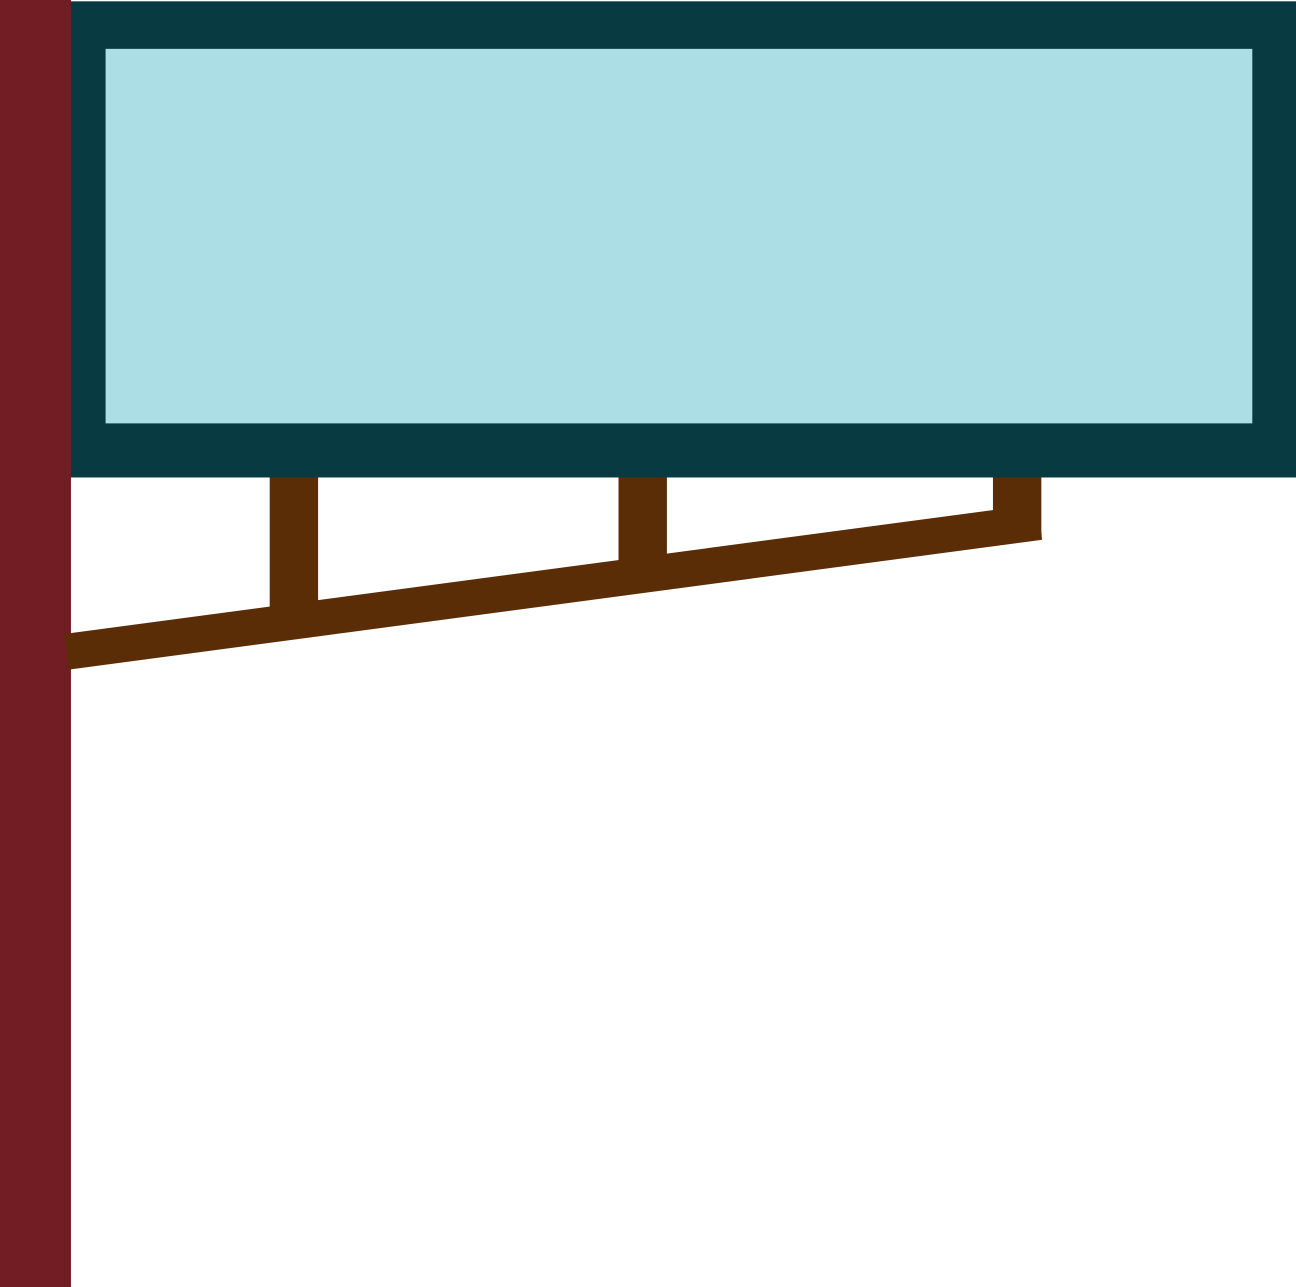
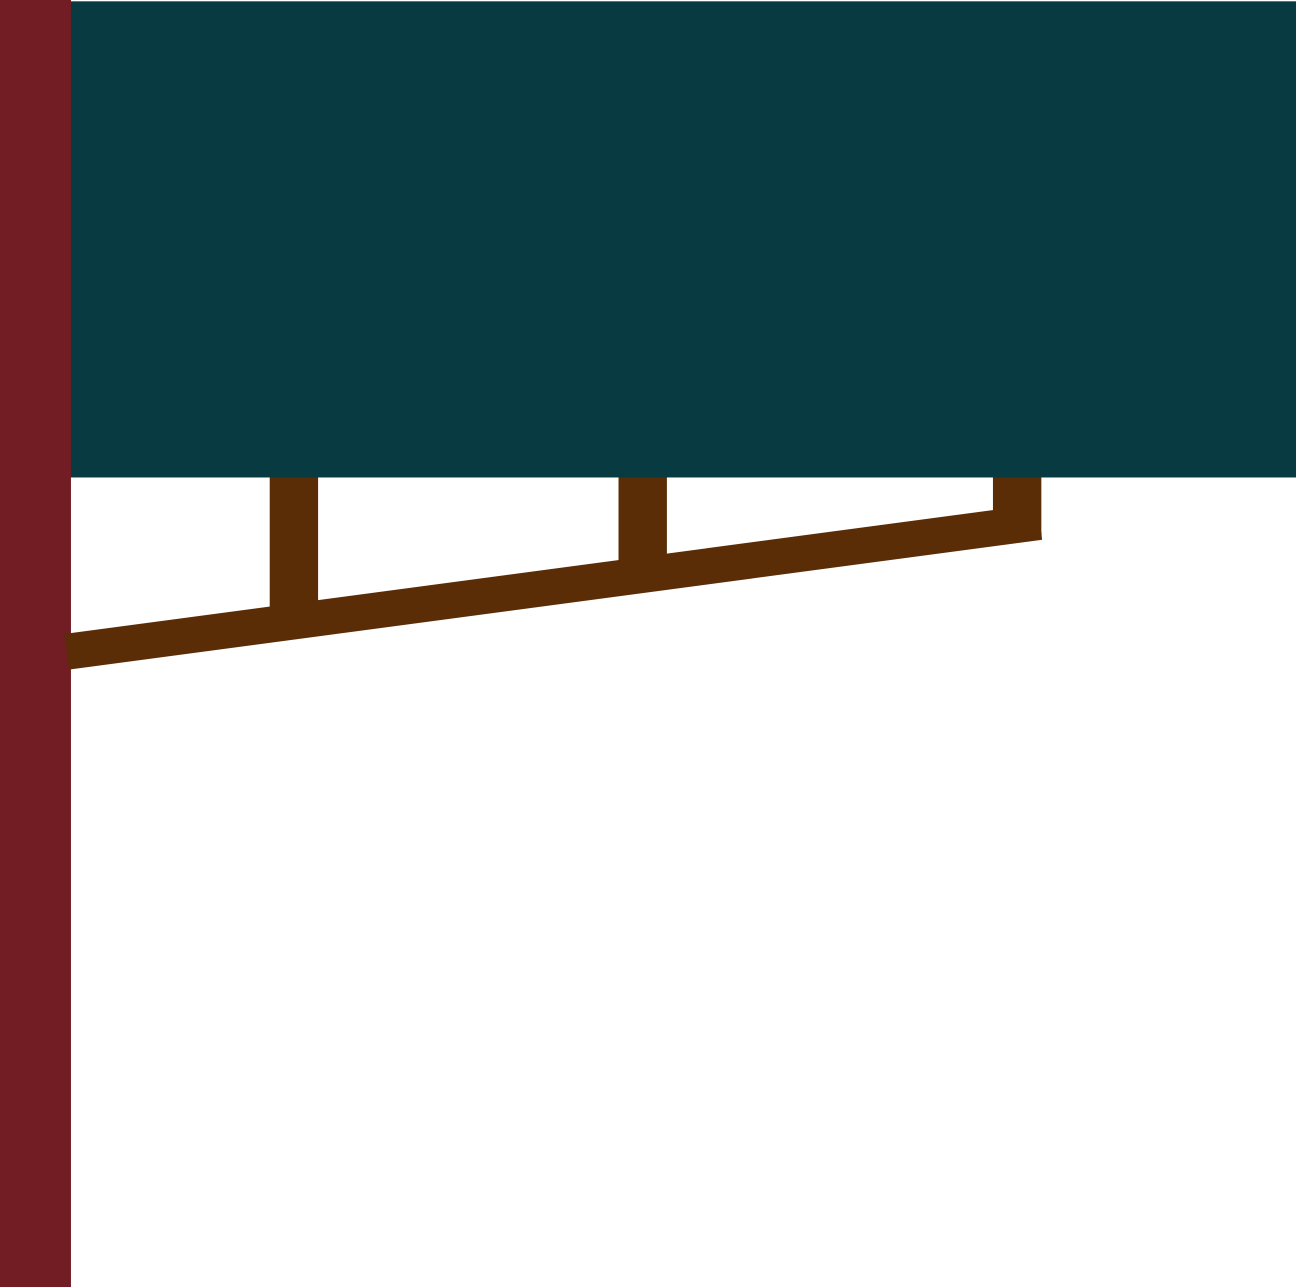
- edit board

Changed region(s): [[0.0617, 0.0311, 0.9877, 0.3419]]

diff --git a/style.css b/style.css
@@ -79,24 +79,15 @@ body {
     transform: perspective(10vh) rotateX(30deg);
 }
 
-
 .banner {
-    padding: 0.8vh 1%;
-    text-align: center;
-    font-size: 0.5%;
-    line-height: 1;
-    color: rgb(211, 32, 76);
-    font-family: 'Carter One', serif;
-}
-
-.banner {
-    position: absolute;
+    position: relative;
     background: url('img/banner.png');
     background-size: 100% 100%;
     width: 10%;
     height: 10vh;
-    left: 30%;
-    top: 52vh;
+    left: -15%;
+    top: 8vh;
+  
     animation: banner-scale var(--time-banner) ease-in infinite;
 }
 
@@ -107,4 +98,26 @@ body {
     100% {
         scale: 20;
     }
+}
+
+.board {
+    position: absolute;
+    top: 3%;
+    left: 5%;
+    width: 91%;
+    height: 3vh;
+    background: orange;
+}
+
+.board { 
+    display: flex;
+    align-items: center;
+    justify-content: center;
+    padding: 0.1vh;
+    font-size: 0.5%;
+    line-height: 1;
+    color: rgb(211, 32, 76);
+    font-family: 'Carter One', serif;
+    overflow: clip;
+    word-wrap: break-word;
 }

diff --git a/index.html b/index.html
@@ -12,7 +12,9 @@
   <div class="road-mark"></div>
   <div class="grass"></div>
   <div class="vehicle"></div>
-  <div class="banner"></div>
+  <div class="banner">
+    <div class="board">Hello</div>
+  </div>
 
   <script src="script.js"></script>
 </body>

diff --git a/script.js b/script.js
@@ -1,3 +1,3 @@
-const banner = document.getElementsByClassName('banner')[0];
+const board = document.getElementsByClassName('board')[0];
 
-banner.textContent = "Welcome to my World";
+board.textContent = "Welcome to my World";
